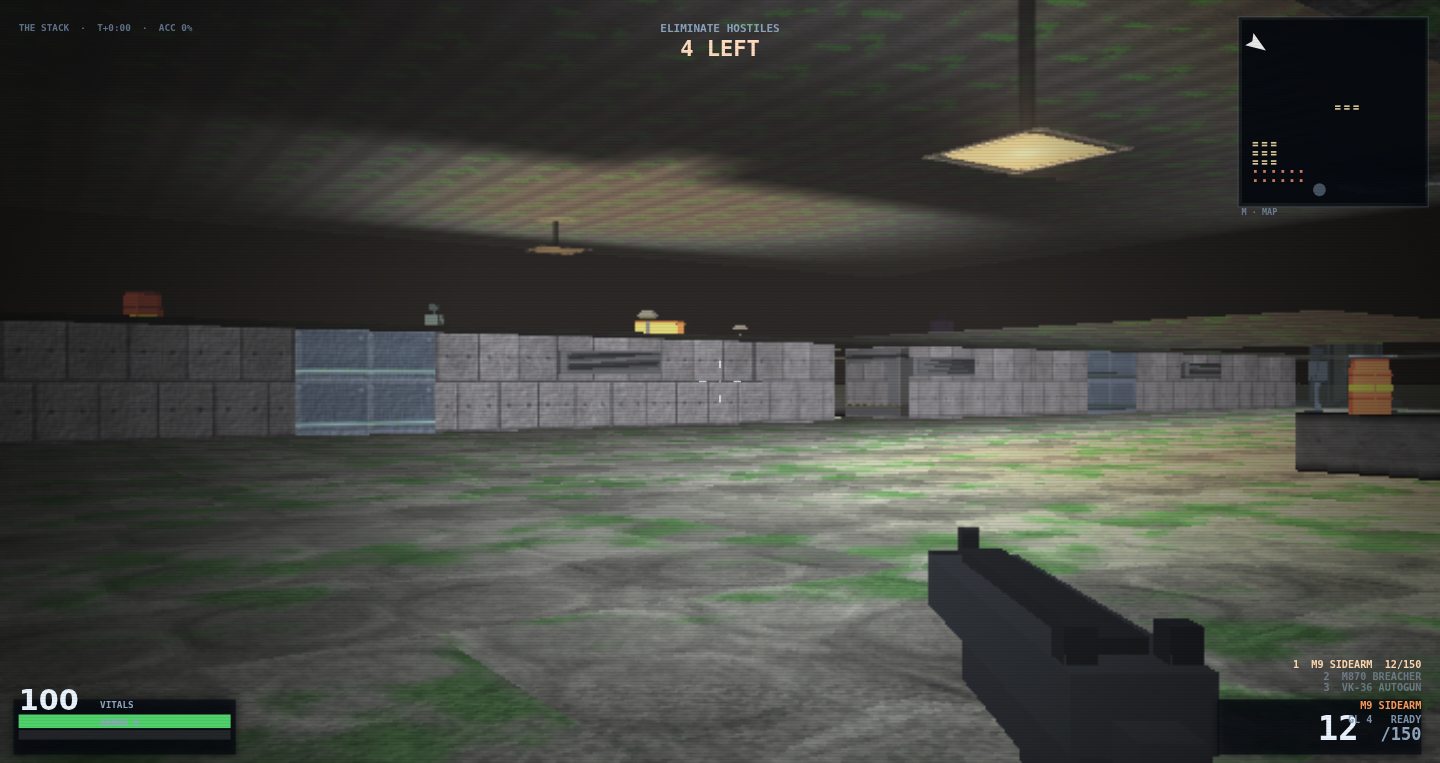
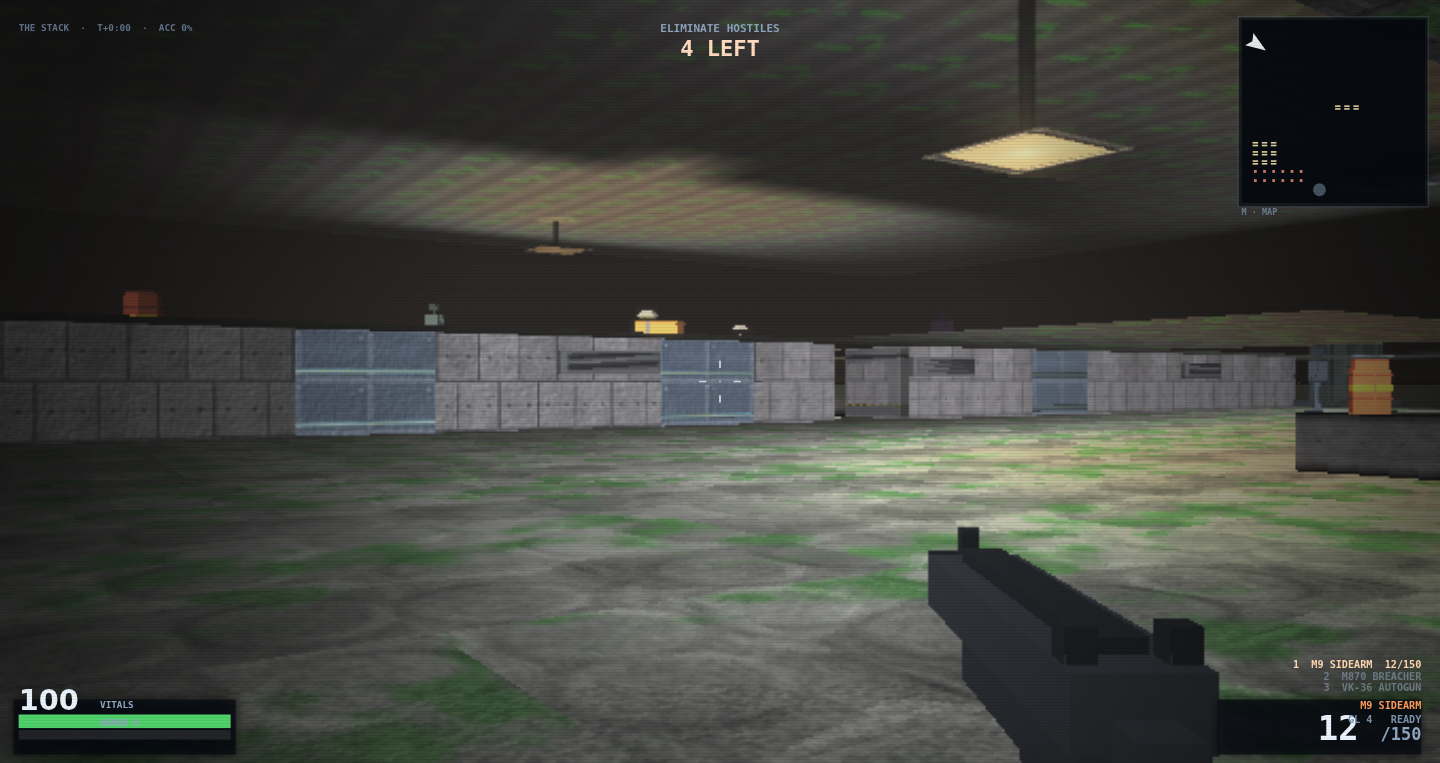
docs: THE STACK's frame is re-taken from the build that stopped lighting its floor
#369's deck repaint is live on the deployed build, so the frame README.md printed for
THE STACK was one build behind again: the deck third read 78.7 in the committed bytes and
75.2 on the page a player loads, at an unchanged vault third of 45.6. Re-took that one
frame from the deployed Pages build (index.html plus all eleven js blobs served were
md5-identical to main at a61b540 before the shutter), re-declared its provenance row with
the layout and sample rate read at capture time, and moved the caption's numbers to the
bytes they describe. Nothing in js/ changed: this is the picture README.md claims, not a
picture change.

Changed region(s): [[0.4375, 0.422, 0.5312, 0.5727], [0.7188, 0.4522, 0.8125, 0.5426], [0.4375, 0.3919, 0.4688, 0.422]]

diff --git a/README.md b/README.md
@@ -51,7 +51,7 @@ a byte claim written here is false by the next merge (#395). What *changed* betw
 in the PR that moved it, not here.
 
 `node tools/recap.js check` decodes the eight PNGs and fails if any number below disagrees with the
-bytes, so a caption cannot drift from its frame. The eight frames decode to **63.44 / 20.87 / 63.06 / 47.81 / 68.50 / 66.75 / 64.56 / 72.01** mean luma
+bytes, so a caption cannot drift from its frame. The eight frames decode to **63.44 / 20.87 / 63.06 / 47.81 / 68.50 / 64.98 / 64.56 / 72.01** mean luma
 (`0.2126 R + 0.7152 G + 0.0722 B`, the rule `DEV.lum` uses), in the order they appear below. A dark
 row below means a row whose own mean luma is under 24 — the threshold the tool measures at, whatever
 number a sentence labels.
@@ -110,21 +110,26 @@ refuses from above.
 ![the authored two-storey level from its own spawn seat](docs/screens/level3-stack.png)
 
 **THE STACK**, the hand-authored level, from its spawn seat: (1.5, 2.5) on the datum, heading 0.60, 4
-hostiles left, and **0 of 763 rows average below luminance 24** (mean 66.75, thirds 45.6 / 76.1 / 78.7).
-The seat's own cell carries a ceiling at **1.00** — you are under the slab — and seven cells along the
-heading the plan opens into an atrium whose ceiling solves at **4.00** over `floor 0.00`. What crosses
-the middle of the frame is the wall of the room the seat opens into, with the atrium's lit floor visible
-above its top edge: a surface you cannot shoot at, over a wall you can. That edge is now carried by the
-surfaces themselves — rectified ashlar blockwork with incised joints and tie holes over flagstone and
-moss — so where the deck stops and the wall begins reads at any distance, in bright light or dim, and
-not only where the lamp happens to graze it (#428). The vault is still the darkest large surface in the
-frame: its band runs 45.6 against the deck's 78.7. The stepped glyphs on the minimap are the staircase
-that gets you up there. Hand-authoring removes the seed excuse — this plan is written cell by cell over
-a 20 × 20 grid — and it also shows what is still missing: `tools/view.js volume` reports this seat's
-headroom as `1.00..1.00`, so the level is genuinely two-storey in `MAP.fz` and still reads as a low room
-with a bright slit in it (#353). The light is brighter than this seat's last frame was: 50.14 → 66.75,
-and the room has gained visible ceiling fittings since — that half of the move is lighting, not this
-wall.
+hostiles left, and **0 of 763 rows average below luminance 24** (mean 64.98, thirds 45.6 / 74.2 / 75.2;
+at the tool's other bar, 47 rows under 34, longest run 42 from row 260). The seat's own cell carries a
+ceiling at **1.00** — you are under the slab — and seven cells along the heading the plan opens into an
+atrium whose ceiling solves at **4.00** over `floor 0.00`. What crosses the middle of the frame is the
+wall of the room the seat opens into, with the atrium's lit floor visible above its top edge: a surface
+you cannot shoot at, over a wall you can. That edge is carried by the surfaces themselves rather than by
+the light on them — rectified ashlar blockwork with incised joints and tie holes over flagstone and moss
+— so a lip reads as a lip at any distance, in bright light or dim, and not only where a lamp happens to
+graze it (#428). The vault is still the darkest large surface in the frame: its band runs 45.6 against
+the deck's 75.2, and this is the first frame of this seat where that gap is the *surfaces* talking — the
+blockwork and the flagstone are different materials, and the deck no longer out-lights the roof over it
+because the finale's floor stops burning past the picture it is lit for (#369). The stepped glyphs on
+the minimap are the staircase that gets you up there. Hand-authoring removes the seed excuse — this plan
+is written cell by cell over a 20 × 20 grid — and it also shows what is still missing:
+`tools/view.js volume` reports this seat's headroom as `1.00..1.00`, so the level is genuinely two-storey
+in `MAP.fz` and still reads as a low room with a bright slit in it (#353). Against the frame this one
+replaces the whole move is the floor: mean 66.75 → 64.98, bottom third 78.7 → 75.2, middle 76.1 → 74.2,
+and the top third unchanged at 45.6; the wall did not move, because the wall moved in the previous
+re-take, the one that also took this seat from 50.14 to 66.75 when the room gained visible ceiling
+fittings.
 
 ![ABATOIR CORE from its arrival seat: the slab over the room fills the top of the frame](docs/screens/level2-abatoir.png)
 
